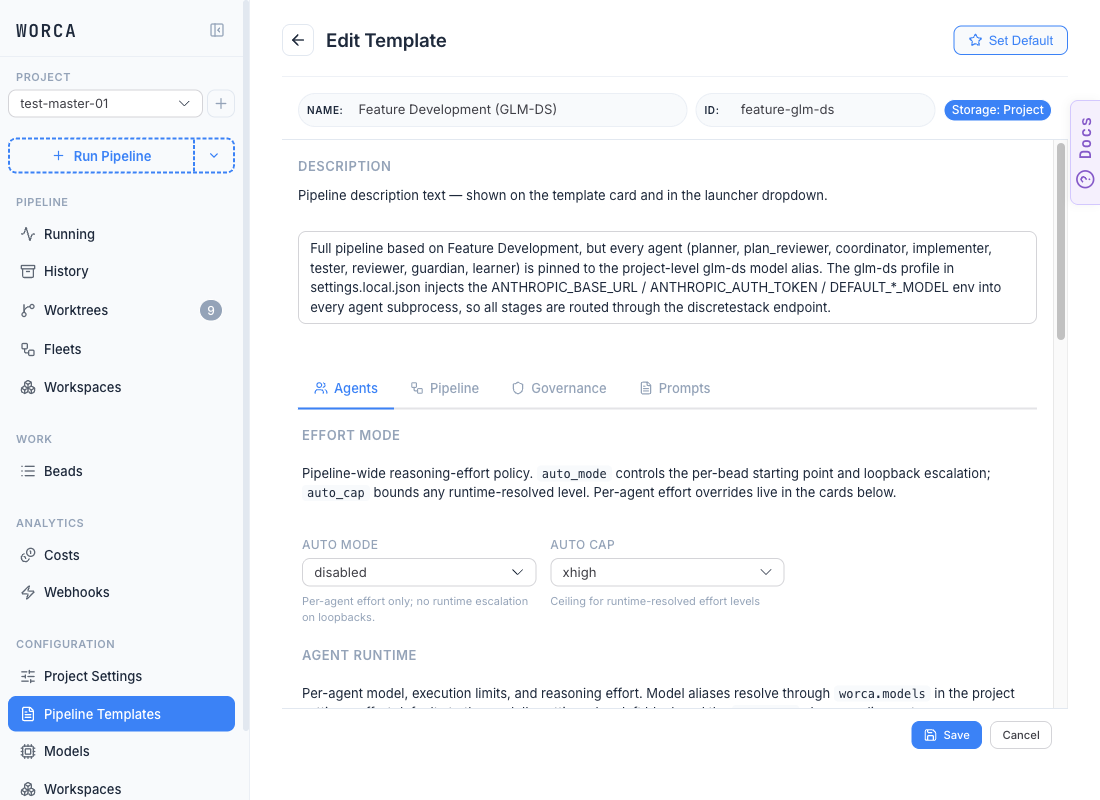
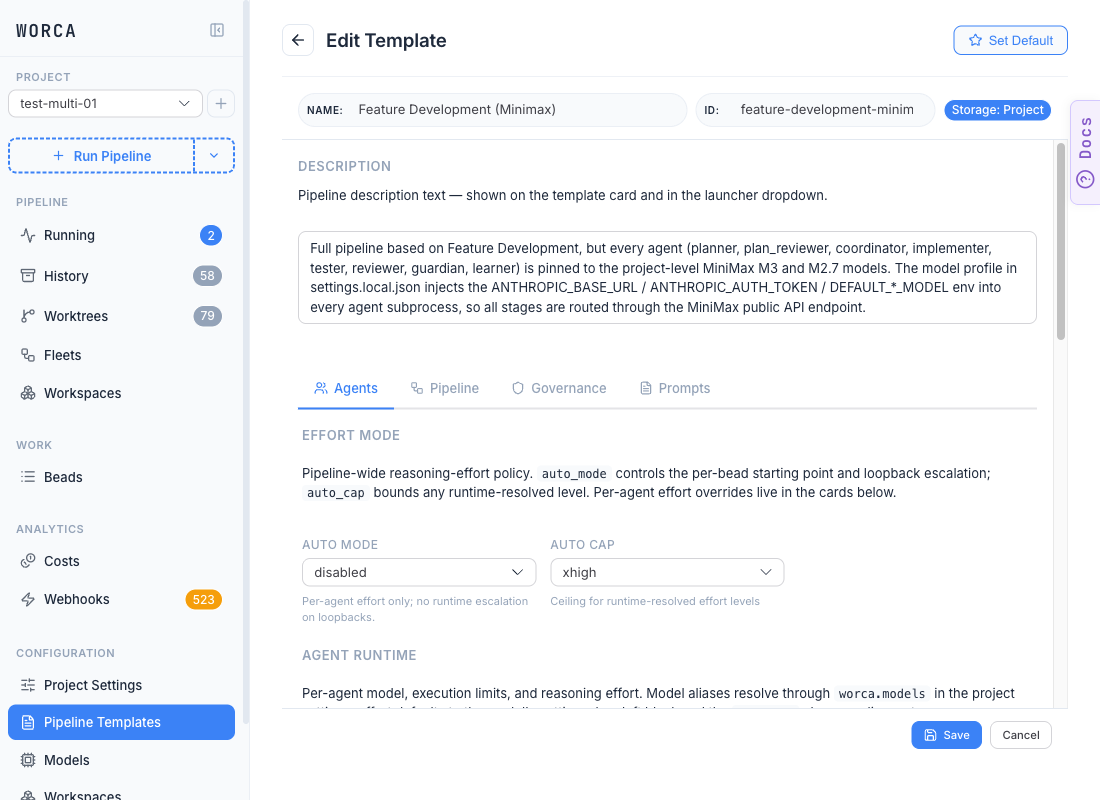
docs(non-anthropic-providers): use real MiniMax alias + template for screenshots
Re-captured all three screenshots from test-multi-01 instead of the
GLM-DS template, so the page now shows:

- 01-model-editor: the actual minimax-m3 alias with
  ANTHROPIC_BASE_URL=https://api.minimax.io/anthropic, MAX_THINKING_TOKENS,
  and DEFAULT_*_MODEL env rows. (Auth-token row deliberately cropped out
  of the viewport — settings.local.json carries a live secret.)
- 02-effort-mode-disabled: the Feature Development (Minimax) template
  with Auto mode already set to disabled and Description text confirming
  every agent routes through MiniMax.
- 03-per-agent-default: implementer/tester on minimax-m2_7, reviewer on
  minimax-m3, every Effort field at (default) — the recipe in vivo.

Doc body updated to describe the new shots, document the
ANTHROPIC_DEFAULT_*_MODEL env mapping explicitly, and remove the cross-
reference to the GLM-DS shot in adding-models.

diff --git a/docs-site/src/content/docs/advanced/non-anthropic-providers.md b/docs-site/src/content/docs/advanced/non-anthropic-providers.md
@@ -19,16 +19,19 @@ MiniMax exposes an Anthropic-compatible endpoint at `https://api.minimax.io/anth
 
 ### Endpoint setup — on the Models page
 
-Open the [Models](/configuration/models/) page, click **+ New** to create an alias, and fill the **Environment variables** table — minimum is `ANTHROPIC_BASE_URL` and an auth token. The screenshot below shows another alt-endpoint alias (`glm-ds`) configured the same way — replace the values with MiniMax's:
+Open the [Models](/configuration/models/) page, click **+ New** to create a MiniMax alias, and fill the **Environment variables** table:
 
-![The Edit Model editor with the alias field, Storage tier badge (Project), model id, and the Environment variables table containing ANTHROPIC_BASE_URL plus seven more env rows for an alt-endpoint profile.](/screenshots/adding-models/01-editor-env.png)
+![The Edit Model editor for the `minimax-m3` alias: ALIAS field reads "minimax-m3", Storage badge "Project", "Resolves to: opus + 8 env vars" summary, MODEL ID field set to `opus`, and the Environment variables table with ANTHROPIC_BASE_URL set to `https://api.minimax.io/anthropic`, plus API_TIMEOUT_MS (3000000), CLAUDE_CODE_MAX_OUTPUT_TOKENS (8192), MAX_THINKING_TOKENS (8191), ANTHROPIC_DEFAULT_OPUS_MODEL (`MiniMax-M3`), and ANTHROPIC_DEFAULT_SONNET_MODEL (`MiniMax-M3`) rows.](/screenshots/non-anthropic-providers/01-model-editor.png)
 
-For MiniMax:
+Minimum required env keys:
 
 | Env key | Value |
 |---|---|
 | `ANTHROPIC_BASE_URL` | `https://api.minimax.io/anthropic` |
 | `ANTHROPIC_AUTH_TOKEN` | your MiniMax API key (lives in `settings.local.json` — gitignored) |
+| `ANTHROPIC_DEFAULT_OPUS_MODEL` / `ANTHROPIC_DEFAULT_SONNET_MODEL` / `ANTHROPIC_DEFAULT_HAIKU_MODEL` | the MiniMax model id the alias should route each tier to (e.g. `MiniMax-M3`, `MiniMax-M2.7-highspeed`) |
+
+The **MODEL ID** field above the env table can stay set to `opus`, `sonnet`, or `haiku` — the `ANTHROPIC_DEFAULT_*_MODEL` env vars override it on the wire, so the same alias can serve as a drop-in replacement for any Anthropic tier.
 
 Set per-token rates in the alias card's **Pricing** accordion — alt-endpoint runs override the Claude CLI's `total_cost_usd` from your configured rates so cost accounting stays accurate.
 
@@ -63,13 +66,13 @@ In the **Pipeline Templates** editor (see [Pipeline templates](/configuration/pi
 
 **Step 1.** On the **Agents** tab, set **Auto mode** in the Effort Mode card to `disabled`:
 
-![The Effort Mode card on the Agents tab with AUTO MODE set to `disabled` (inline description "Per-agent effort only; no runtime escalation on loopbacks.") and AUTO CAP set to `xhigh`. The Edit Template view's NAME field reads "Feature Development (GLM-DS)" with a Project storage badge.](/screenshots/non-anthropic-providers/02-effort-mode-disabled.png)
+![The Edit Template view for "Feature Development (Minimax)" — ID `feature-development-minim(ax)`, Project storage badge — Description noting that every agent is pinned to project-level MiniMax M3 and M2.7 models routed through the MiniMax public API endpoint. On the Agents tab, the EFFORT MODE card shows AUTO MODE set to `disabled` (inline description "Per-agent effort only; no runtime escalation on loopbacks.") and AUTO CAP set to `xhigh`.](/screenshots/non-anthropic-providers/02-effort-mode-disabled.png)
 
 Why: adaptive mode would otherwise inject the coordinator's bead-complexity label as the implementer's starting point, which becomes a non-null effort level → sets `CLAUDE_CODE_EFFORT_LEVEL` → the Claude CLI emits a `thinking` block → M3 turns thinking on. Pinning `disabled` removes that path.
 
 **Step 2.** On the same tab, set every per-agent **Effort** field to `(default)`:
 
-![Agent cards on the Agents tab for the GLM-DS template: every visible agent — Planner, Plan_reviewer, Coordinator, Implementer, Tester, Reviewer — has its Effort field set to `(default)`. Each card's MODEL field reads `glm-ds`.](/screenshots/non-anthropic-providers/03-per-agent-default.png)
+![Agent cards on the Agents tab for the MiniMax template. Top row partially visible: three agents with EFFORT `(default)` and a MAX BEADS field set to `Auto` on the rightmost (coordinator). Bottom row: IMPLEMENTER (MODEL `minimax-m2_7`, EFFORT `(default)`), TESTER (MODEL `minimax-m2_7`, EFFORT `(default)`), REVIEWER (MODEL `minimax-m3`, EFFORT `(default)`). Below that, GUARDIAN / LEARNER / WORKSPACE_PLANNER cards begin.](/screenshots/non-anthropic-providers/03-per-agent-default.png)
 
 Why: `(default)` stores `effort: null`, which omits `CLAUDE_CODE_EFFORT_LEVEL` from the subprocess env. No env var → no `thinking` block in the request → M3 falls back to its default (off).
 
